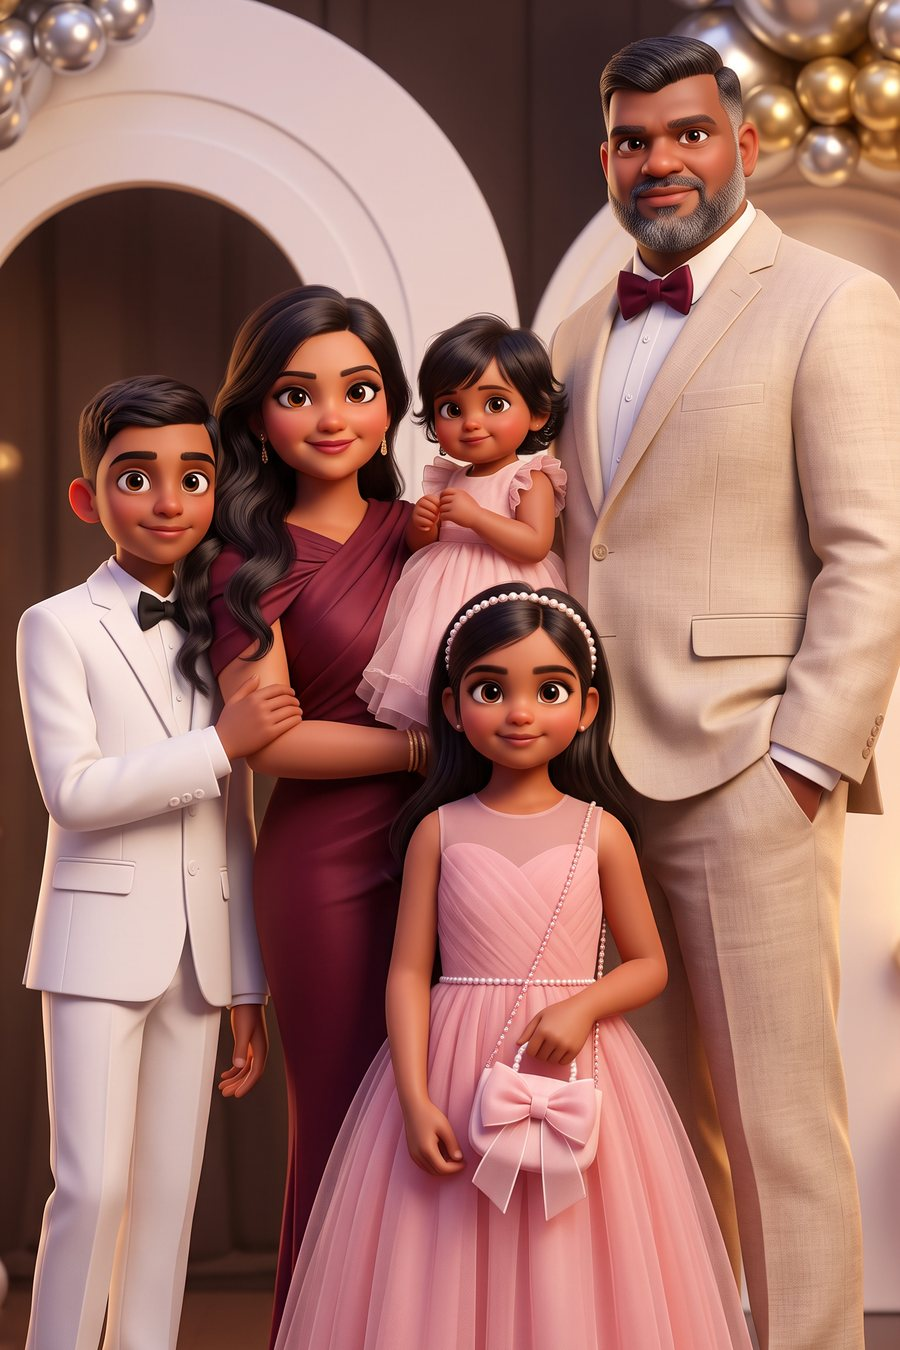
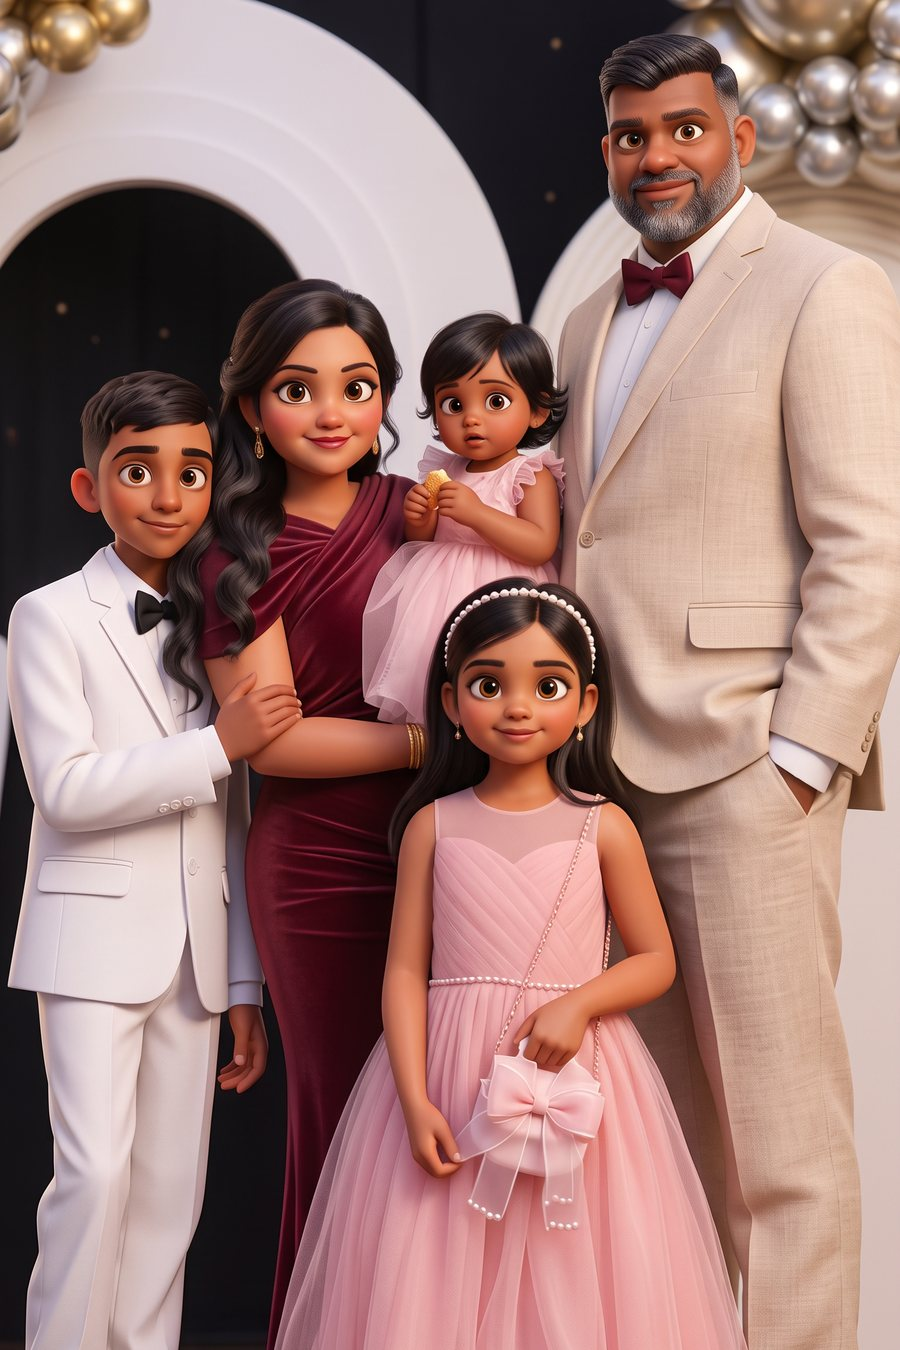
Switch family illustration to the dark-backdrop version

diff --git a/index.html b/index.html
@@ -529,7 +529,7 @@
 
       <div class="life-grid">
       <figure class="family-art reveal">
-        <img src="assets/img/family-illustration.jpg" width="900" height="1350" alt="Cartoon illustration of Ganesh with family: a father in a beige suit, a mother in a burgundy gown holding a toddler, a girl in a pink dress and a boy in a white tuxedo" loading="lazy">
+        <img src="assets/img/family-illustration.jpg?v=2" width="900" height="1350" alt="Cartoon illustration of Ganesh with family: a father in a beige suit, a mother in a burgundy gown holding a toddler, a girl in a pink dress and a boy in a white tuxedo" loading="lazy">
         <figcaption>My crew, as cartoons. It's an illustration made from a family photo, so our real faces stay offline.</figcaption>
       </figure>
       <div class="interests">
